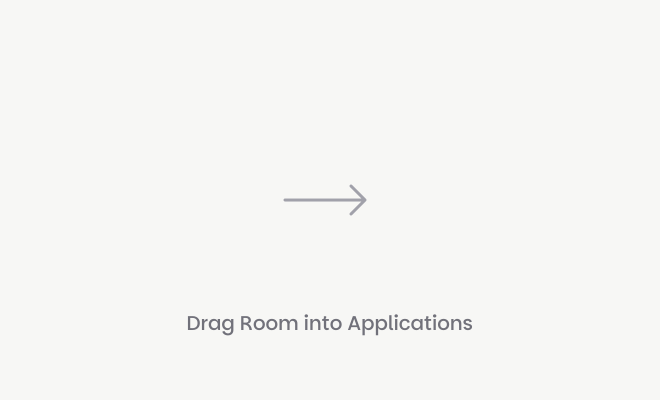
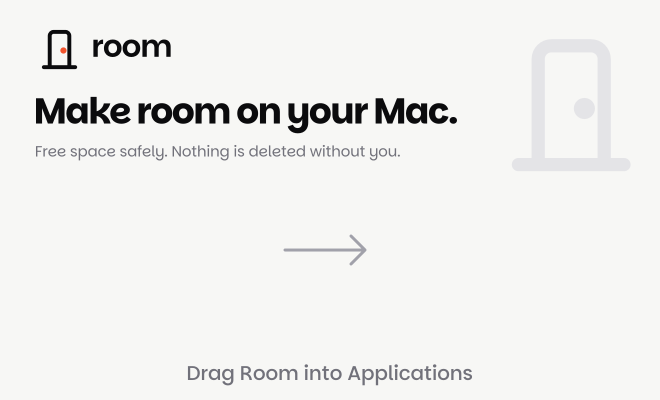
Richer disk image background: lockup, headline, ghost door

diff --git a/scripts/dmg-settings.py b/scripts/dmg-settings.py
@@ -10,7 +10,7 @@ symlinks = {"Applications": "/Applications"}
 background = bg
 if icon:
     icon = icon
-window_rect = ((200, 120), (660, 400))
+window_rect = ((200, 120), (660, 432))   # content area is 660 x 400 below the title bar
 default_view = "icon-view"
 show_status_bar = False
 show_tab_view = False
@@ -20,6 +20,6 @@ show_sidebar = False
 icon_size = 112
 text_size = 13
 icon_locations = {
-    os.path.basename(app): (165, 190),
-    "Applications": (495, 190),
+    os.path.basename(app): (165, 255),
+    "Applications": (495, 255),
 }
